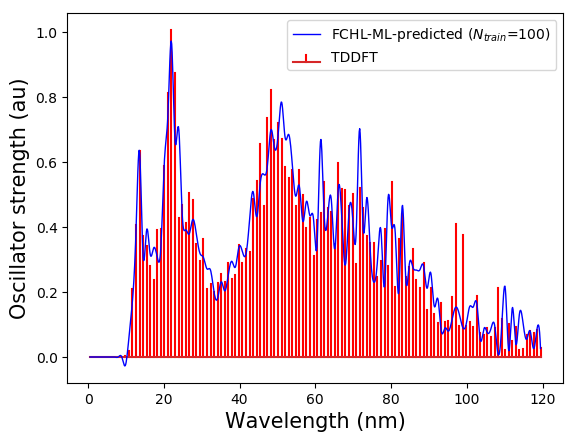
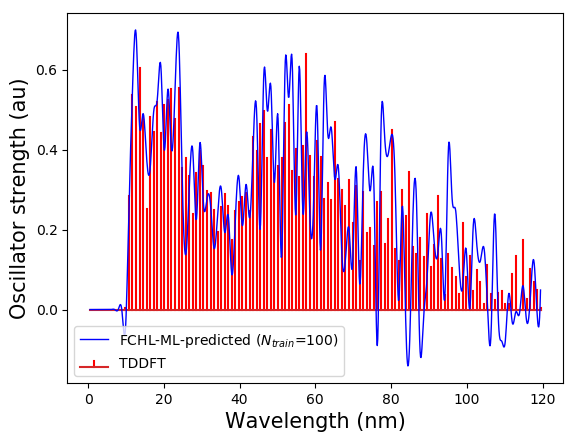
rr: minor edits

diff --git a/example_scripts/test_002/inp.py b/example_scripts/test_002/inp.py
@@ -66,7 +66,9 @@ label2='FCHL-ML-predicted ($N_{train}$='+ str(N_train) +')'
 label=[label1, label2]
 qmlspectrum.plot_stem_smooth(lam,Int_TDDFT,Int_pred,label,'trainingmolecule_spectrum_ML_TDDFT.png')
 
-iquery=6406
+
+
+iquery=5000
 Int_pred=qmlspectrum.predict(X,alpha,indices,iquery,max_size,sigmas,cut_distance)
 
 Int_TDDFT=Int_lam[indices[iquery],:]
